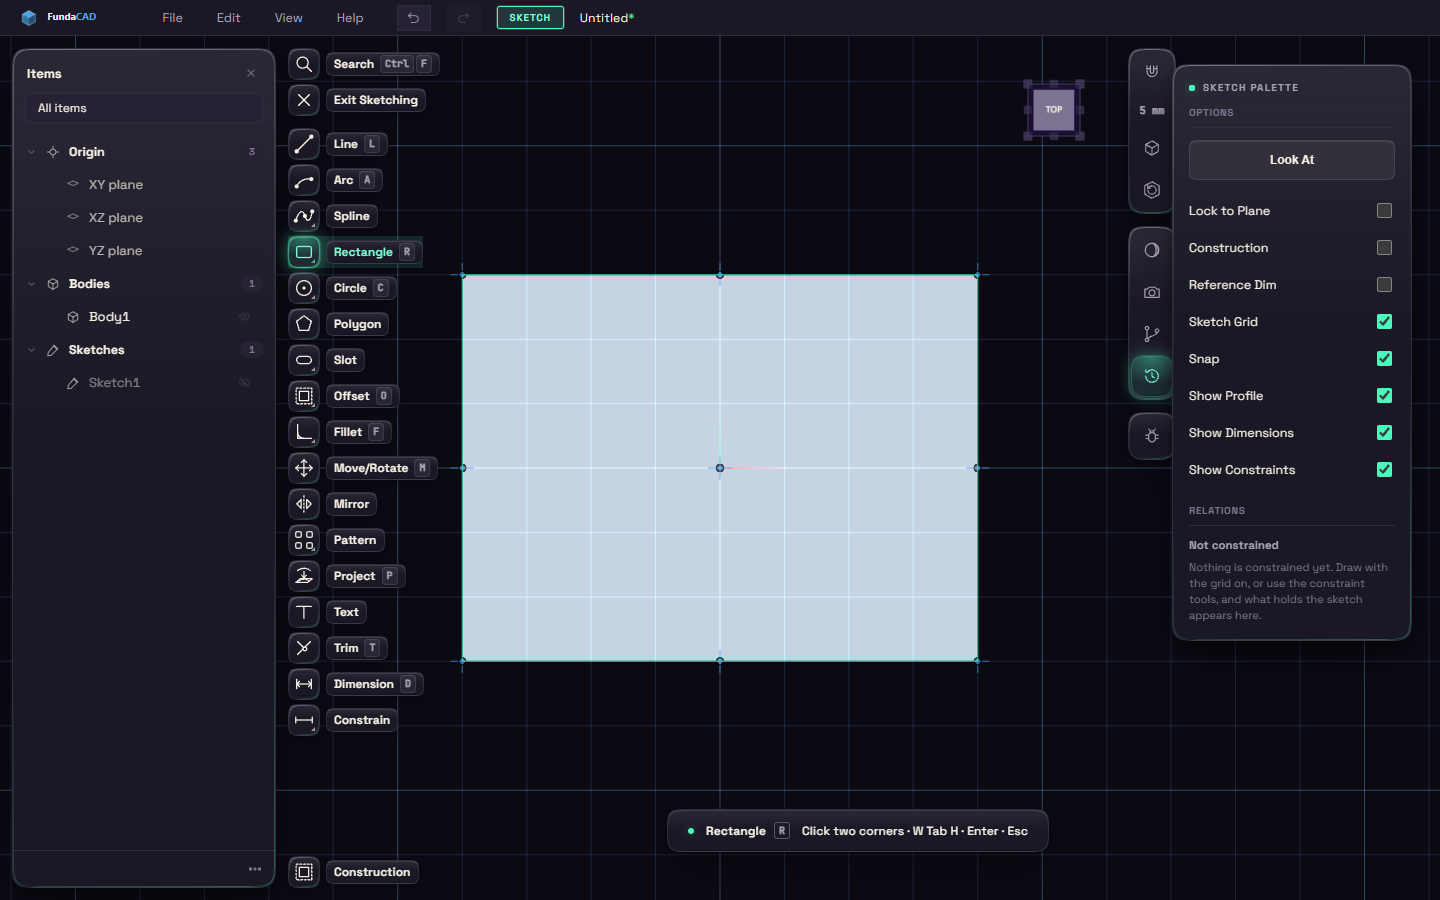
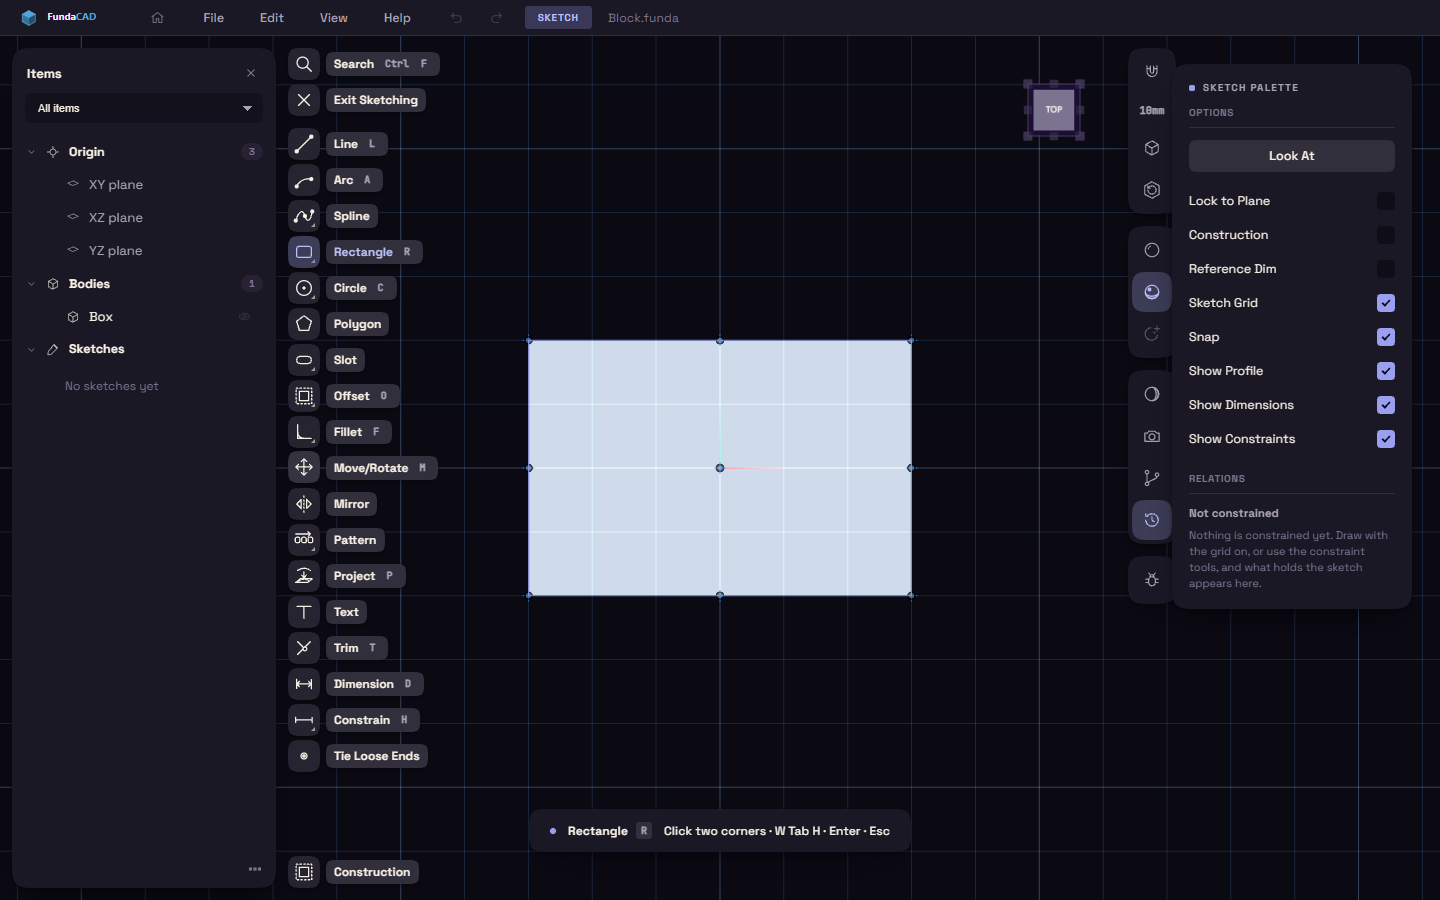
docs: The sketch overview is retaken as a window shot, in the app's own font

diff --git a/manual/tools/capture/capture.py b/manual/tools/capture/capture.py
@@ -12,6 +12,7 @@ import tempfile
 import time
 import tomllib
 from pathlib import Path
+from urllib.parse import unquote
 
 HERE = Path(__file__).resolve().parent
 REPO = HERE.parents[2]
@@ -31,6 +32,17 @@ WATCH_OPEN = """() => {
 OPENED = "() => window.__captureOpened && window.store.document.features.length > 0"
 SET_THEME = "(id) => import('/src/ui/theme.ts').then((m) => m.setTheme(id))"
 SET_PARAM = "([n, e]) => window.store.setParamExpr(n, e)"
+# The frame and rebuild timings differ on every run, so a retake would change for no reason. readouts = true keeps them.
+HIDE_READOUTS = """(hide) => {
+  let el = document.getElementById('capture-hide-readouts');
+  if (!el) {
+    el = document.createElement('style');
+    el.id = 'capture-hide-readouts';
+    el.textContent = '#fps, .roundtrip { visibility: hidden !important; }';
+    document.head.append(el);
+  }
+  el.disabled = !hide;
+}"""
 # The browser decodes a screenshot to raw RGBA much faster than Python can unfilter a PNG.
 DECODE = """async (b64) => {
   const bin = Uint8Array.from(atob(b64), (c) => c.charCodeAt(0));
@@ -47,6 +59,25 @@ DECODE = """async (b64) => {
 
 class ShotError(Exception):
     pass
+
+
+def serve_fonts(page):
+    """In a worktree whose node_modules is a junction, vite sees the fonts at their real path, outside the folders it
+    may serve, and answers 403, so the app falls back to a system font. The page reads them from disk instead."""
+    modules = (REPO / "node_modules").resolve()
+    if modules == REPO / "node_modules":
+        return
+
+    def fulfill(route):
+        rel = unquote(route.request.url.split("/@fs/", 1)[1].split("?", 1)[0])
+        f = Path(rel).resolve()
+        if f.is_relative_to(modules) and f.is_file():
+            route.fulfill(body=f.read_bytes(), content_type=f"font/{f.suffix[1:]}")
+        else:
+            route.fallback()
+
+    page.route("**/@fs/**/*.woff2*", fulfill)
+    page.route("**/@fs/**/*.woff", fulfill)
 
 
 def load(area: str) -> list[dict]:
@@ -101,7 +132,7 @@ def open_example(s, name: str):
     s.settle()
 
 
-def do_open(s, what: str):
+def do_open(s, what: str, name: str | None = None):
     kind, _, arg = what.partition(":")
     if kind == "example":
         open_example(s, arg)
@@ -109,7 +140,13 @@ def do_open(s, what: str):
         found = [d / arg for d in FIXTURES if (d / arg).exists()]
         if not found:
             raise ShotError(f"no fixture {arg} in {' or '.join(str(d.relative_to(REPO)) for d in FIXTURES)}")
-        s.open_file(found[0])
+        src = found[0]
+        if name:
+            # The title bar shows the file name, and .funda files may not be committed outside a few folders.
+            named = Path(tempfile.gettempdir()) / "fundacad-capture" / "open" / name
+            named.parent.mkdir(parents=True, exist_ok=True)
+            src = shutil.copyfile(src, named)
+        s.open_file(src)
     elif kind == "file":
         s.open_file(REPO / arg)
     elif kind == "new":
@@ -138,7 +175,7 @@ def run_step(s, step):
     opts = dict(list(step.items())[1:])
     page = s.page
     if action == "open":
-        do_open(s, value)
+        do_open(s, value, opts.get("name"))
     elif action == "theme":
         page.evaluate(SET_THEME, THEME_ALIASES.get(value, value))
     elif action == "evaluate":
@@ -239,6 +276,7 @@ def crop_rect(s, shot: dict) -> dict | None:
 
 
 def prepare(s, shot: dict):
+    s.page.evaluate("document.fonts.ready.then(() => true)")
     for _ in range(2):
         s.page.keyboard.press("Escape")
     s.panel("preferences", open=False)
@@ -246,6 +284,7 @@ def prepare(s, shot: dict):
     if s.page.viewport_size != {"width": w, "height": h}:
         s.page.set_viewport_size({"width": w, "height": h})
     s.page.evaluate(SET_THEME, theme_id(shot))
+    s.page.evaluate(HIDE_READOUTS, not shot.get("readouts", False))
     steps = shot.get("steps", [])
     first = steps[0] if steps else None
     if not (isinstance(first, dict) and next(iter(first)) == "open"):
@@ -365,11 +404,16 @@ def main(argv=None) -> int:
     sys.path.insert(0, str(HERE))
     from fundacad_harness import Session
 
+    class CaptureSession(Session):
+        def _launch_browser(self):
+            super()._launch_browser()
+            serve_fonts(self.page)
+
     for gpu in (False, True):
         batch = [x for x in live if bool(x.get("gpu")) == gpu]
         if not batch:
             continue
-        with Session(engine=args.engine, viewport=viewport_of(batch[0]), gpu=gpu,
+        with CaptureSession(engine=args.engine, viewport=viewport_of(batch[0]), gpu=gpu,
                      settle_timeout=args.settle_timeout, repo=REPO) as s:
             for shot in batch:
                 out = target_path(shot, args.out)

diff --git a/manual/tools/capture/README.md b/manual/tools/capture/README.md
@@ -42,9 +42,12 @@ steps = [
 | `park` | `[x, y]` to move the mouse to first, so no tooltip shows |
 | `gpu` | `true` for a real GPU, in a session of its own; keep renders short and capped |
 | `stub` | `true` until the entry has its steps, the tool skips it |
+| `readouts` | `true` keeps the frame and rebuild timings, which are hidden so a retake does not change for no reason |
 | `show`, `alt` | what the picture must show and the page's alt text |
 
 Each entry starts from a new document in its theme unless its first step opens something.
+
+In a worktree whose node_modules is a junction, vite refuses the app's fonts, so the tool serves them from disk. A picture in a system font was taken without the tool.
 
 ## Crops
 
@@ -61,7 +64,7 @@ Each entry starts from a new document in its theme unless its first step opens s
 
 A step is a table whose first key is the action, the other keys are its options.
 
-- `{ open = "example:Wall bracket" }`, also `fixture:sketch-extrude.json` (from `fixtures/` here, then `tools/harness/fixtures`), `file:<path>`, `new` or `home`.
+- `{ open = "example:Wall bracket" }`, also `fixture:sketch-extrude.json` (from `fixtures/` here, then `tools/harness/fixtures`), `file:<path>`, `new` or `home`. `name = "Block.funda"` opens a fixture under that file name, for the title bar.
 - Any harness action with its arguments: `{ tool = "Extrude" }`, `{ pick_face = "..." }`, `{ type = ["Depth", "12"], enter = true }`, `{ drag_handle = "Distance", mm = 10 }`, `{ menu = "File/Export" }`, `{ panel = "history" }`, `{ view = "iso" }`, `{ press = "Escape" }`.
 - `{ theme = "dracula" }`, `{ param = "width", value = "40" }`, `{ wait = 300 }`, `{ evaluate = "() => ..." }`.
 - `{ click_css = ".selector" }`, `{ hover = ".selector" }` or `{ hover = [x, y], space = "world" }`.
